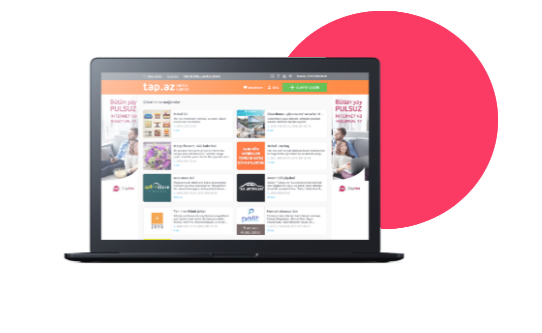
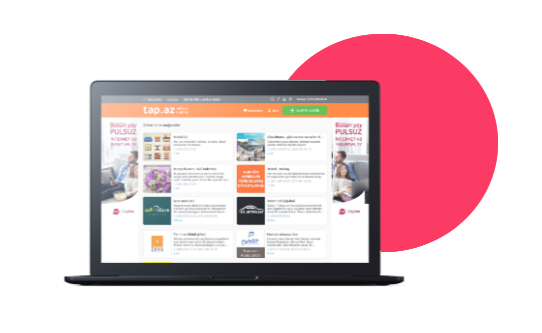
benefits section finished, module 1 finished

Changed region(s): [[0.1181, 0.03, 0.9446, 0.8709]]

diff --git a/scss/benefits.scss b/scss/benefits.scss
@@ -60,6 +60,10 @@
         font-size: 30px;
         text-align: left;
     }
+    
+    .item-phone h3 {
+        margin-top: 1rem;
+    }
 
     .benefits__item-p {
         color: #666;
@@ -72,7 +76,8 @@
     }
 
     .benefits__item-content hr {
-        max-width: 327.64px;
+        margin-top: 2rem;
+        max-width: 45%;
         height: 4px;
         border: 0;
     }
@@ -92,10 +97,6 @@
     .hr-green {
         background-color: $green;
     }
-
-    .benefits-separator {
-        display: none;
-    }
 }
 
 @media only screen and (min-width: 1000px) {
@@ -105,14 +106,20 @@
         .benefits__item {
             display: flex;
             flex-direction: row;
-            justify-content: space-around;
+            justify-content: space-between;
             align-items: center;
             margin: 2rem 15%;
+            height: 18rem;
+            padding: 0 2rem 0 2rem;
+        }
+
+        .item-phone h3 {
+            margin-top: 0;
         }
 
         .item-separated {
-            background-color: white;
-            justify-content: space-between;
+            background-color: #F7F7F7;
+            justify-content: space-around;
             padding: 0 0 0 0;
         }
 
@@ -121,16 +128,21 @@
         }
 
         .content-separated {
-            width: 60%;
-        }
-
-        .benefits__item-img img {
-            padding-top: 1.5rem;
+            display: flex;
+            flex-direction: column;
+            justify-content: center;
+            width: 100%;
+            height: 100%;
+            background-color: white;
+            margin-right: 3rem;
         }
 
         .img-trumpet {
-            width: 386px;
+            display: flex;
+            align-items: center;
+            justify-content: center;
             height: 100%;
+            width: 50%;
         }
 
         .item-pc {

diff --git a/css/styles.css b/css/styles.css
@@ -317,6 +317,9 @@
   font-size: 30px;
   text-align: left;
 }
+.main__section-benefits .item-phone h3 {
+  margin-top: 1rem;
+}
 .main__section-benefits .benefits__item-p {
   color: #666;
   font-size: 16px;
@@ -327,7 +330,8 @@
   margin-bottom: 1rem;
 }
 .main__section-benefits .benefits__item-content hr {
-  max-width: 327.64px;
+  margin-top: 2rem;
+  max-width: 45%;
   height: 4px;
   border: 0;
 }
@@ -343,9 +347,6 @@
 .main__section-benefits .hr-green {
   background-color: #55DFB4;
 }
-.main__section-benefits .benefits-separator {
-  display: none;
-}
 
 @media only screen and (min-width: 1000px) {
   .main__section-benefits {
@@ -354,27 +355,38 @@
   .main__section-benefits .benefits__item {
     display: flex;
     flex-direction: row;
-    justify-content: space-around;
+    justify-content: space-between;
     align-items: center;
     margin: 2rem 15%;
+    height: 18rem;
+    padding: 0 2rem 0 2rem;
+  }
+  .main__section-benefits .item-phone h3 {
+    margin-top: 0;
   }
   .main__section-benefits .item-separated {
-    background-color: white;
-    justify-content: space-between;
+    background-color: #F7F7F7;
+    justify-content: space-around;
     padding: 0 0 0 0;
   }
   .main__section-benefits .benefits__item-content {
     width: 60%;
   }
   .main__section-benefits .content-separated {
-    width: 60%;
-  }
-  .main__section-benefits .benefits__item-img img {
-    padding-top: 1.5rem;
+    display: flex;
+    flex-direction: column;
+    justify-content: center;
+    width: 100%;
+    height: 100%;
+    background-color: white;
+    margin-right: 3rem;
   }
   .main__section-benefits .img-trumpet {
-    width: 386px;
+    display: flex;
+    align-items: center;
+    justify-content: center;
     height: 100%;
+    width: 50%;
   }
   .main__section-benefits .item-pc {
     flex-direction: row-reverse;

diff --git a/index.html b/index.html
@@ -112,7 +112,6 @@
                     <p class="benefits__item-p">Lorem ipsum dolor sit amet, consectetur adipiscing elit, sed do eiusmod tempor incididunt ut labore et dolore magna aliqua. Ut enim ad minim veniam.</p>
                     <hr class="benefits__item-hr hr-green" />
                 </div>
-                <span class="benefits-separator"></span>
                 <div class="benefits__item-img img-trumpet">
                     <img src="./assets/img/trumpet.png" alt="trumpet" />
                 </div>
